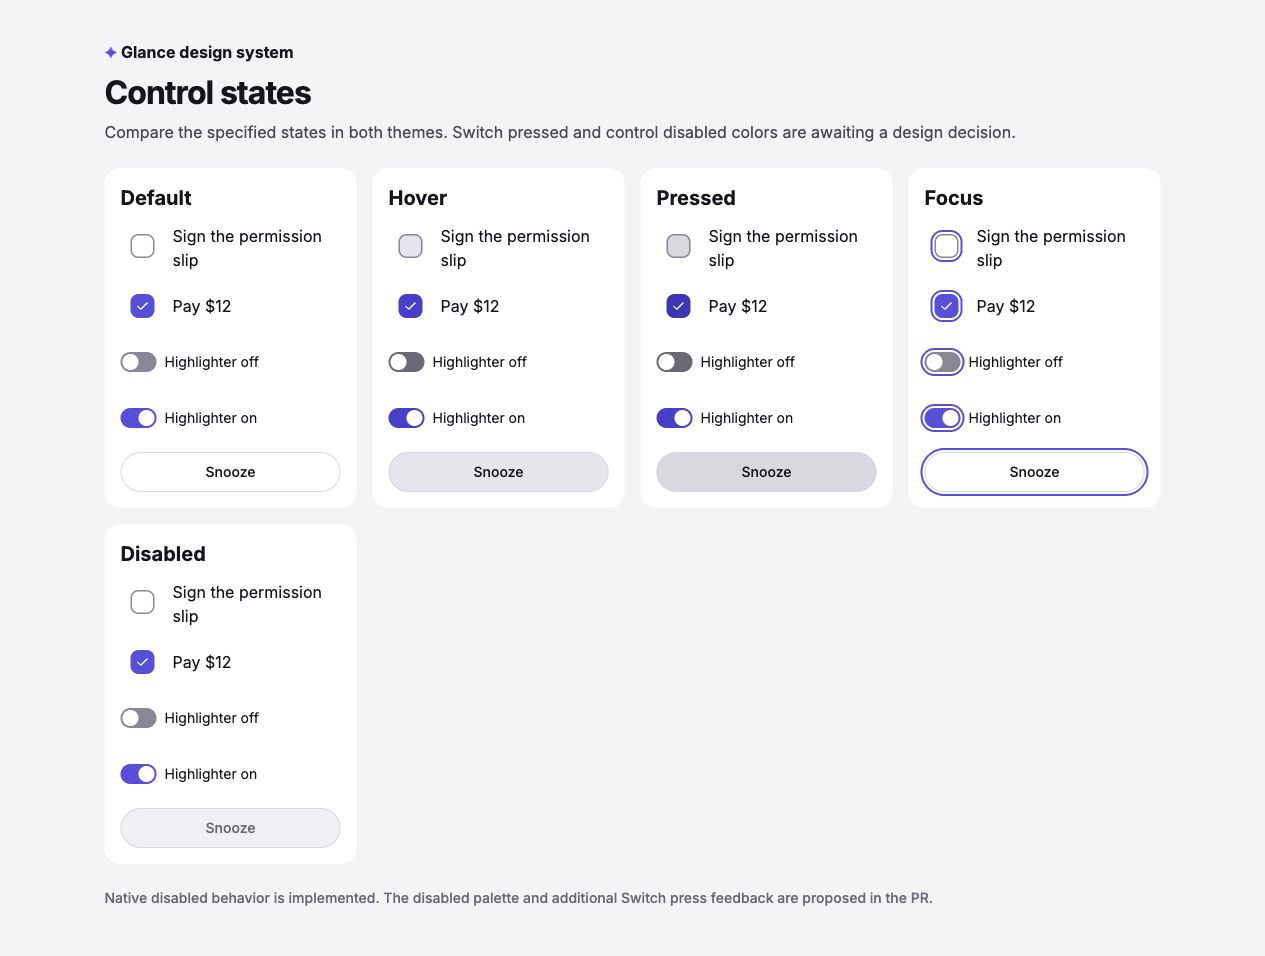
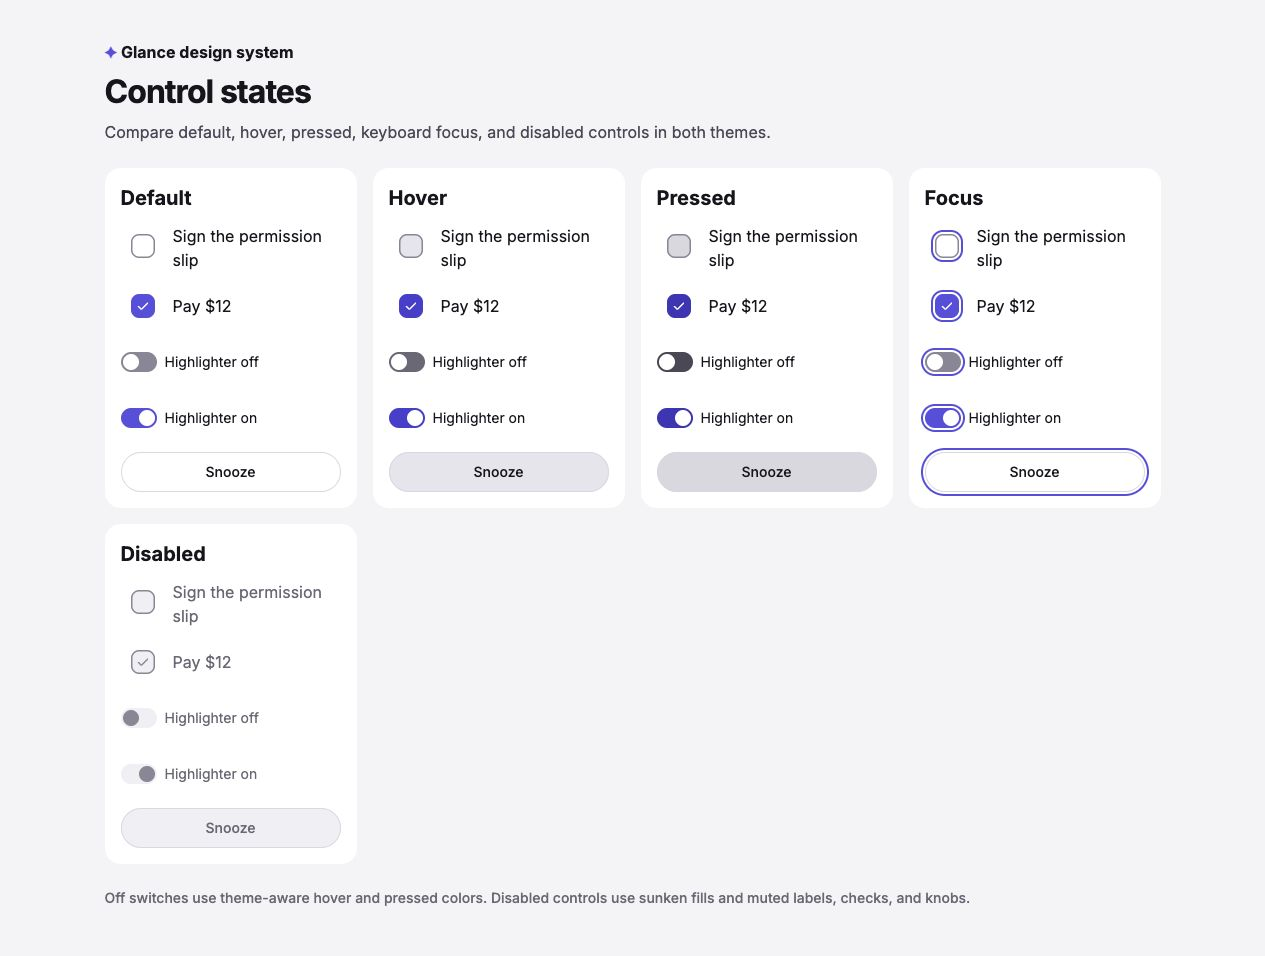
fix(ds): apply approved switch and disabled palettes

diff --git a/src/design-system/components/RemainingPrimitives.stories.tsx b/src/design-system/components/RemainingPrimitives.stories.tsx
@@ -74,7 +74,7 @@ export const States: StoryObj<typeof meta> = {
   render: () => (
     <FoundationPage
       title="Control states"
-      description="Compare the specified states in both themes. Switch pressed and control disabled colors are awaiting a design decision."
+      description="Compare default, hover, pressed, keyboard focus, and disabled controls in both themes."
     >
       <div className={styles.states}>
         {['Default', 'Hover', 'Pressed', 'Focus', 'Disabled'].map((state) => (
@@ -119,8 +119,8 @@ export const States: StoryObj<typeof meta> = {
         ))}
       </div>
       <Text variant="meta">
-        Native disabled behavior is implemented. The disabled palette and
-        additional Switch press feedback are proposed in the PR.
+        Off switches use theme-aware hover and pressed colors. Disabled controls
+        use sunken fills and muted labels, checks, and knobs.
       </Text>
     </FoundationPage>
   ),

diff --git a/src/design-system/tokens/tokens.css b/src/design-system/tokens/tokens.css
@@ -41,6 +41,8 @@
   --color-sunken-hover: #E6E5EC;
   --color-sunken-pressed: #D9D8E0;
   --color-brand-text-hover: #3529B0;
+  --color-switch-off-hover: var(--color-text-muted);
+  --color-switch-off-pressed: var(--color-text-secondary);
 
   /* Field states follow the active fact palette. */
   --color-money-field-hover: var(--color-money-selected);
@@ -204,6 +206,8 @@
     --color-sunken-hover: #34333F;
     --color-sunken-pressed: #3B3A47;
     --color-brand-text-hover: #CFCBFF;
+    --color-switch-off-hover: #76748A;
+    --color-switch-off-pressed: #68667C;
     --color-urgent: #C2255C;
     --color-money: #E0B341;
     --color-money-text: #F0CB6B;
@@ -250,6 +254,8 @@
   --color-sunken-hover: #34333F;
   --color-sunken-pressed: #3B3A47;
   --color-brand-text-hover: #CFCBFF;
+  --color-switch-off-hover: #76748A;
+  --color-switch-off-pressed: #68667C;
   --color-urgent: #C2255C;
   --color-money: #E0B341;
   --color-money-text: #F0CB6B;

diff --git a/src/design-system/components/Switch/Switch.module.css b/src/design-system/components/Switch/Switch.module.css
@@ -13,6 +13,7 @@
 }
 .disabled {
   cursor: default;
+  color: var(--color-text-muted);
 }
 .input {
   position: absolute;
@@ -55,10 +56,22 @@
   );
 }
 .input:not(:disabled):hover + .track {
-  background: var(--color-text-muted);
+  background: var(--color-switch-off-hover);
+}
+.input:not(:disabled):active + .track {
+  background: var(--color-switch-off-pressed);
 }
 .input:checked:not(:disabled):hover + .track {
   background: var(--color-brand-hover);
+}
+.input:checked:not(:disabled):active + .track {
+  background: var(--color-brand-pressed);
+}
+.input:disabled + .track {
+  background: var(--color-surface-sunken);
+}
+.input:disabled + .track .knob {
+  background: var(--color-icon-muted);
 }
 .input:not(:disabled):focus-visible + .track {
   outline: var(--space-2) solid var(--color-brand);

diff --git a/src/design-system/components/Checkbox/Checkbox.stories.tsx b/src/design-system/components/Checkbox/Checkbox.stories.tsx
@@ -24,7 +24,7 @@ const meta = {
     docs: {
       description: {
         component:
-          '[Checkbox specification](https://github.com/shuhaoshang/glance-mail/blob/main/docs/design-system.md#checkbox). The 24px box sits inside a native 44px input target. Disabled interaction is implemented; disabled colors await design review.',
+          '[Checkbox specification](https://github.com/shuhaoshang/glance-mail/blob/main/docs/design-system.md#checkbox). The 24px box sits inside a native 44px input target. Disabled uses the sunken box, muted ring/check, and muted label. Inline Fields remain independent.',
       },
     },
   },

diff --git a/src/design-system/components/Switch/Switch.stories.tsx b/src/design-system/components/Switch/Switch.stories.tsx
@@ -22,7 +22,7 @@ const meta = {
     docs: {
       description: {
         component:
-          '[Switch specification](https://github.com/shuhaoshang/glance-mail/blob/main/docs/design-system.md#switch). Press has no additional color override, and disabled retains its resting palette pending design review.',
+          '[Switch specification](https://github.com/shuhaoshang/glance-mail/blob/main/docs/design-system.md#switch). Off hover and press use theme-aware track tokens to preserve white-knob contrast. Disabled uses a sunken track, muted knob, and muted label.',
       },
     },
   },

diff --git a/src/design-system/components/Checkbox/Checkbox.module.css b/src/design-system/components/Checkbox/Checkbox.module.css
@@ -50,6 +50,11 @@
 .input:checked:not(:disabled):active + .box {
   background: var(--color-brand-pressed);
 }
+.input:disabled + .box {
+  background: var(--color-surface-sunken);
+  color: var(--color-icon-muted);
+  box-shadow: inset 0 0 0 var(--border-selected) var(--color-icon-muted);
+}
 .input:not(:disabled):focus-visible + .box {
   outline: var(--space-2) solid var(--color-brand);
   outline-offset: var(--space-2);
@@ -68,6 +73,7 @@
 }
 .disabled {
   cursor: default;
+  color: var(--color-text-muted);
 }
 .completed {
   text-decoration-line: line-through;

diff --git a/docs/design-system.md b/docs/design-system.md
@@ -52,6 +52,8 @@ All values come from `tokens.css`. The groups are:
 | `--color-sunken-hover` | `#E6E5EC` | `#34333F` | Neutral and icon button hover fill |
 | `--color-sunken-pressed` | `#D9D8E0` | `#3B3A47` | Neutral and icon button pressed fill |
 | `--color-brand-text-hover` | `#3529B0` | `#CFCBFF` | Text button hover and pressed ink |
+| `--color-switch-off-hover` | `var(--color-text-muted)` | `#76748A` | Switch off hover track |
+| `--color-switch-off-pressed` | `var(--color-text-secondary)` | `#68667C` | Switch off pressed track |
 | `--color-money-field-hover` | `var(--color-money-selected)` | `var(--color-money-selected)` | Money Field hover fill |
 | `--color-money-field-pressed` | `var(--color-money-tint)` | `var(--color-money-tint)` | Money Field pressed fill |
 | `--color-time-field-hover` | `var(--color-time-selected)` | `var(--color-time-selected)` | Time Field hover fill |
@@ -61,7 +63,7 @@ All values come from `tokens.css`. The groups are:
 | `--color-row-hover` | `var(--color-surface-muted)` | `var(--color-surface-muted)` | BriefRow and CollapsedGroup hover fill |
 | `--color-row-pressed` | `var(--color-surface-sunken)` | `var(--color-surface-sunken)` | BriefRow and CollapsedGroup pressed fill |
 
-Field and row aliases are declared once in `:root` and resolve against the active light or dark palette.
+Field and row aliases are declared once in `:root` and resolve against the active light or dark palette. Switch off-state tokens use light aliases and explicit overrides in both dark blocks to preserve contrast with the white knob.
 
 ### Enter motion
 
@@ -252,13 +254,16 @@ A 24 avatar (people tint, initial), followed by name and role.
 - Checked: `--color-brand` fill with an `--color-on-brand` check.
 - Hit area: 44 (`--size-touch`). Ticking is the main action in a checklist, so it gets the full touch target; the box stays 24.
 - Hover: unchecked fills with `--color-sunken-hover`; checked uses `--color-brand-hover`. Pressed: `--color-sunken-pressed` or `--color-brand-pressed`. No extra outline; the outline is for keyboard focus only.
+- Disabled: `--color-surface-sunken` box, `--color-icon-muted` ring and check, and `--color-text-muted` label. Native disabled behavior prevents toggling; inline Fields retain their own styling and remain operable.
 - Role: `checkbox`. `checked` and `onCheckedChange` are controlled by the caller. The `label` slot accepts inline Fields; their clicks do not toggle the checkbox. For a rich label, `aria-label` can supply its plain spoken text. The caller sets `completed` when the checklist is complete; its text is struck through while fact controls retain their own underline and remain operable.
 
 ### Switch
 
 - Track: `--size-switch-track-width` × `--size-switch-track-height` (36 × 20). Knob: `--size-switch-knob` (16), `--color-on-brand`.
 - On: `--color-brand`. Off: `--color-icon-muted`.
-- Hover: on uses `--color-brand-hover`; off uses `--color-text-muted`. The knob slides over `--duration-fast`.
+- Hover: on uses `--color-brand-hover`; off uses `--color-switch-off-hover`. Pressed: on uses `--color-brand-pressed`; off uses `--color-switch-off-pressed`. The off-track tokens keep the white knob contrast approximately 4.5:1 on hover and 5.6:1 on press in dark theme.
+- The knob slides over `--duration-fast`. Only `:focus-visible` draws an outline.
+- Disabled: `--color-surface-sunken` track, `--color-icon-muted` knob, and `--color-text-muted` label. The control cannot toggle and hover/press do not change its colors.
 - Hit area: 44, including the visible label.
 - Role: `switch`, with a native checkbox input and a visible text label. `checked` and `onCheckedChange` are controlled by the caller.
 
